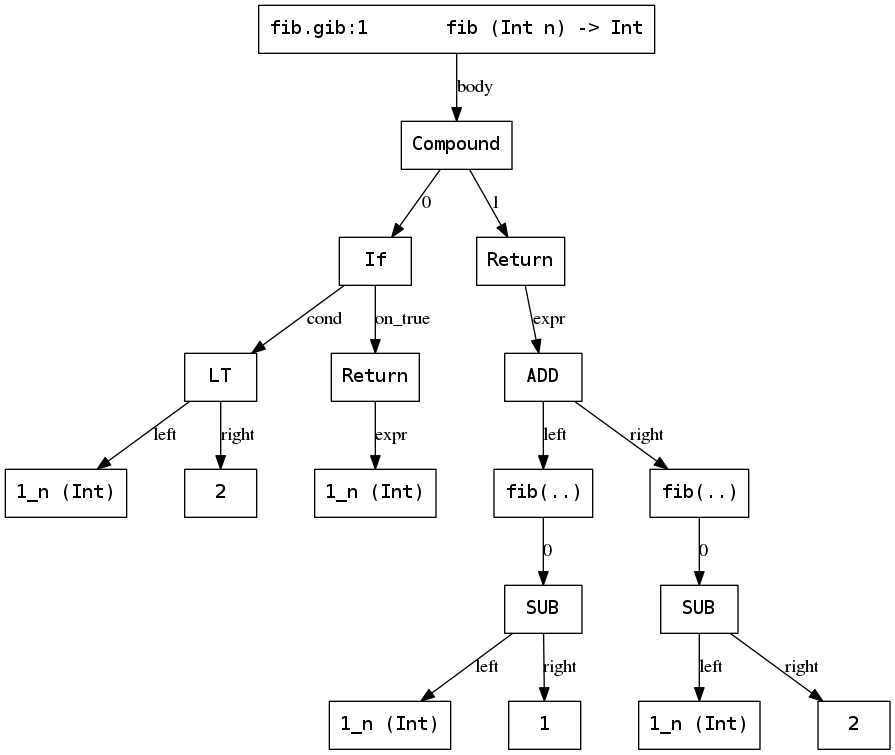
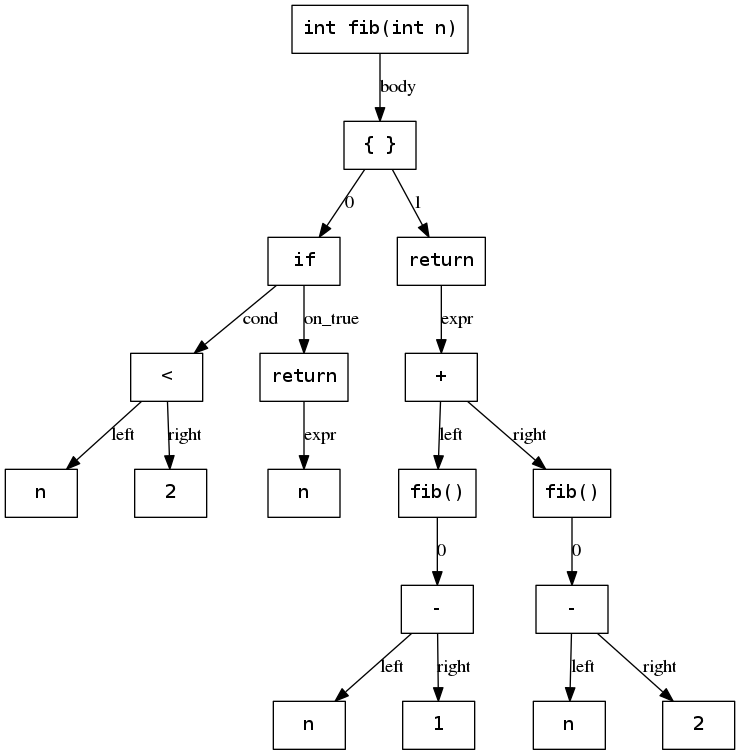
Simplify fib AST example

diff --git a/questions/README.md b/questions/README.md
@@ -36,8 +36,6 @@ The visualisation of an AST representing this function could look like this:
 
 ![fib AST](gfx/fib_ast.png)
 
-*Variable names are prefixed with an id followed by an underscore.*
-
 Every statement, expression, literal, operator, etc; is modelled here.
 This would be a subtree of the AST representing the whole input program.
 
